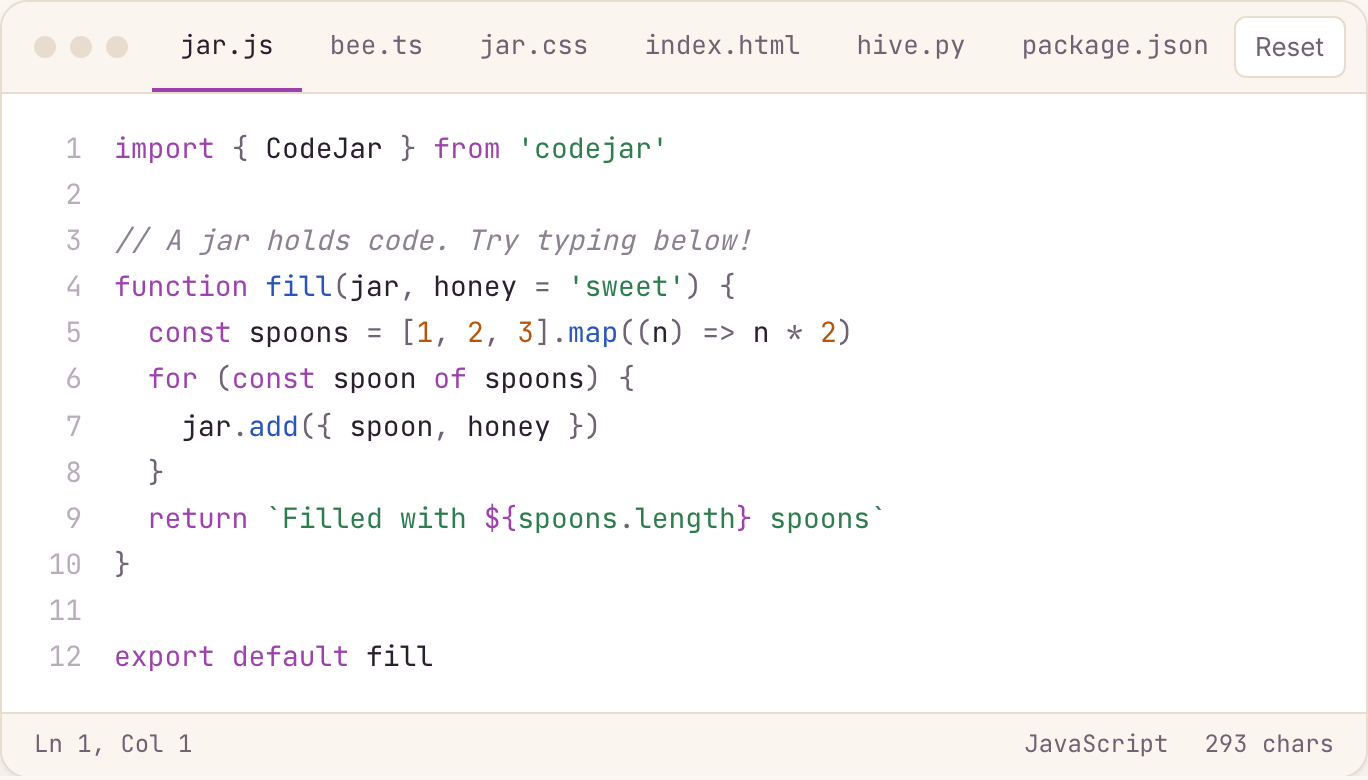
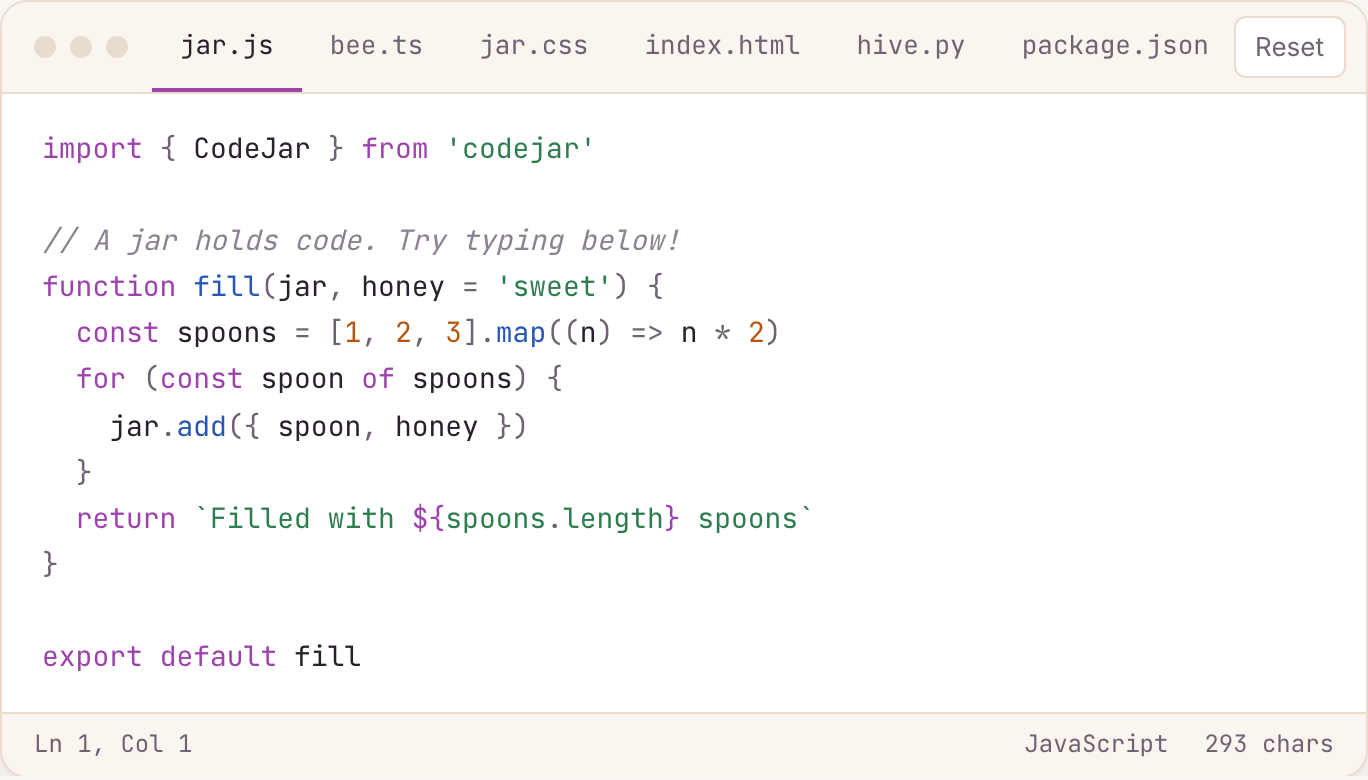
Remove line-number gutter from demo

diff --git a/demo/style.css b/demo/style.css
@@ -12,7 +12,6 @@
   --shadow: 0 1px 2px rgb(42 31 45 / 6%), 0 12px 40px -12px rgb(42 31 45 / 18%);
 
   --code-bg: #ffffff;
-  --code-gutter: #b9adbb;
   --code-bar: #faf5ef;
   --tok-comment: #8c8190;
   --tok-keyword: #9d42ad;
@@ -44,7 +43,6 @@
     --accent-text: #dfa3e8;
     --shadow: 0 1px 2px rgb(0 0 0 / 30%), 0 16px 48px -16px rgb(0 0 0 / 60%);
     --code-bg: #1a141d;
-    --code-gutter: #5d5161;
     --code-bar: #221a26;
     --tok-comment: #7e7282;
     --tok-keyword: #d991e4;
@@ -72,7 +70,6 @@
   --accent-text: #dfa3e8;
   --shadow: 0 1px 2px rgb(0 0 0 / 30%), 0 16px 48px -16px rgb(0 0 0 / 60%);
   --code-bg: #1a141d;
-  --code-gutter: #5d5161;
   --code-bar: #221a26;
   --tok-comment: #7e7282;
   --tok-keyword: #d991e4;
@@ -382,22 +379,10 @@ main {
   line-height: 1.65;
 }
 
-.gutter {
-  position: sticky;
-  left: 0;
-  flex: none;
-  min-width: 52px;
-  padding: 16px 12px 16px 0;
-  text-align: right;
-  color: var(--code-gutter);
-  background: var(--code-bg);
-  white-space: pre;
-  user-select: none;
-}
-
 .editor {
-  flex: 1 0 auto;
-  padding: 16px 16px 16px 4px;
+  flex: 1;
+  min-width: 0;
+  padding: 16px 20px;
   color: var(--text);
   tab-size: 2;
   caret-color: var(--accent);

diff --git a/demo/main.ts b/demo/main.ts
@@ -66,7 +66,6 @@ for (const pre of document.querySelectorAll<HTMLElement>('.snippet')) {
 
 // Live editor
 const editor = $('#editor')
-const gutter = $('#gutter')
 const tabs = $('#lang-tabs')
 let current: Sample = samples[0]
 
@@ -79,20 +78,6 @@ const highlight = (el: HTMLElement) => {
 }
 
 const jar = CodeJar(editor, highlight, { tab: '  ' })
-// Don't wrap lines, so the line-number gutter stays aligned.
-editor.style.whiteSpace = 'pre'
-editor.style.overflowWrap = 'normal'
-
-let gutterLines = 0
-function renderGutter(code: string) {
-  const lines = Math.max(
-    code.split('\n').length - (code.endsWith('\n') ? 1 : 0),
-    1,
-  )
-  if (lines === gutterLines) return
-  gutterLines = lines
-  gutter.textContent = Array.from({ length: lines }, (_, i) => i + 1).join('\n')
-}
 
 function renderStatus() {
   const code = jar.toString()
@@ -113,7 +98,6 @@ function renderStatus() {
 
 jar.onUpdate((code) => {
   storage.set(`codejar:code:${current.id}`, code)
-  renderGutter(code)
   renderStatus()
 })
 document.addEventListener('selectionchange', renderStatus)

diff --git a/demo/index.html b/demo/index.html
@@ -73,7 +73,6 @@
             <button class="reset" type="button" id="reset">Reset</button>
           </div>
           <div class="window-body">
-            <div class="gutter" id="gutter" aria-hidden="true"></div>
             <div
               class="editor"
               id="editor"

diff --git a/README.md b/README.md
@@ -3,7 +3,6 @@
 
 <p align="center">
   <a href="https://www.npmjs.com/package/codejar"><img src="https://img.shields.io/npm/v/codejar?color=9d42ad" alt="npm"></a>
-  <a href="https://bundlephobia.com/package/codejar"><img src="https://img.shields.io/bundlephobia/minzip/codejar?label=size&color=9d42ad" alt="bundle size"></a>
   <a href="https://github.com/antonmedv/codejar/actions/workflows/test.yaml"><img src="https://github.com/antonmedv/codejar/actions/workflows/test.yaml/badge.svg" alt="test"></a>
 </p>
 
